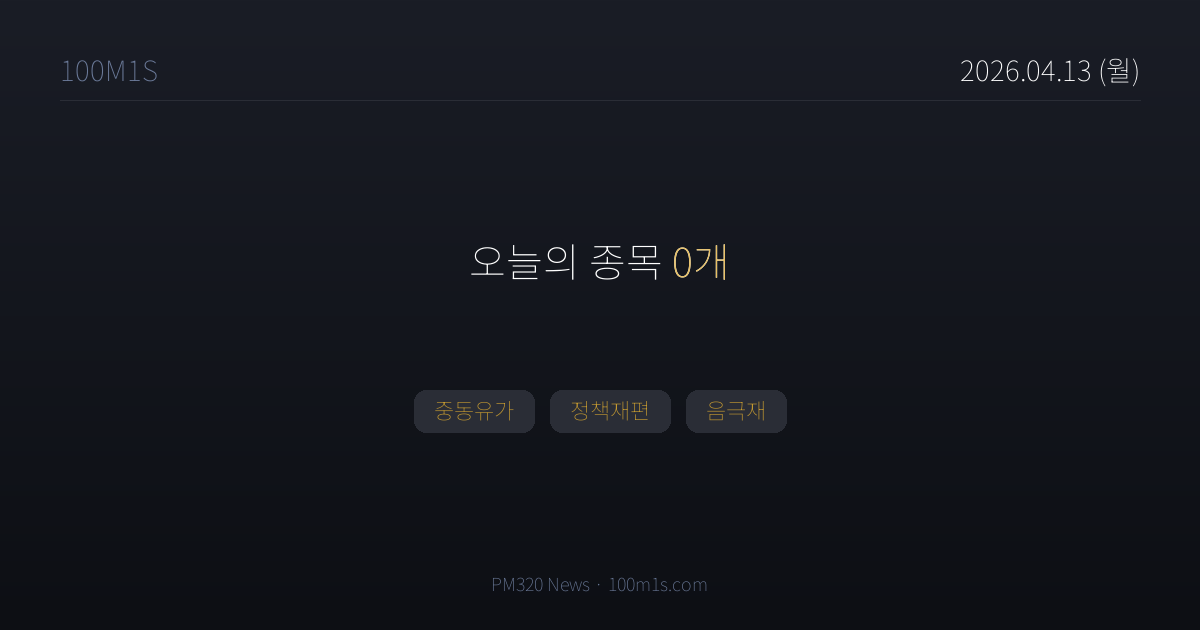
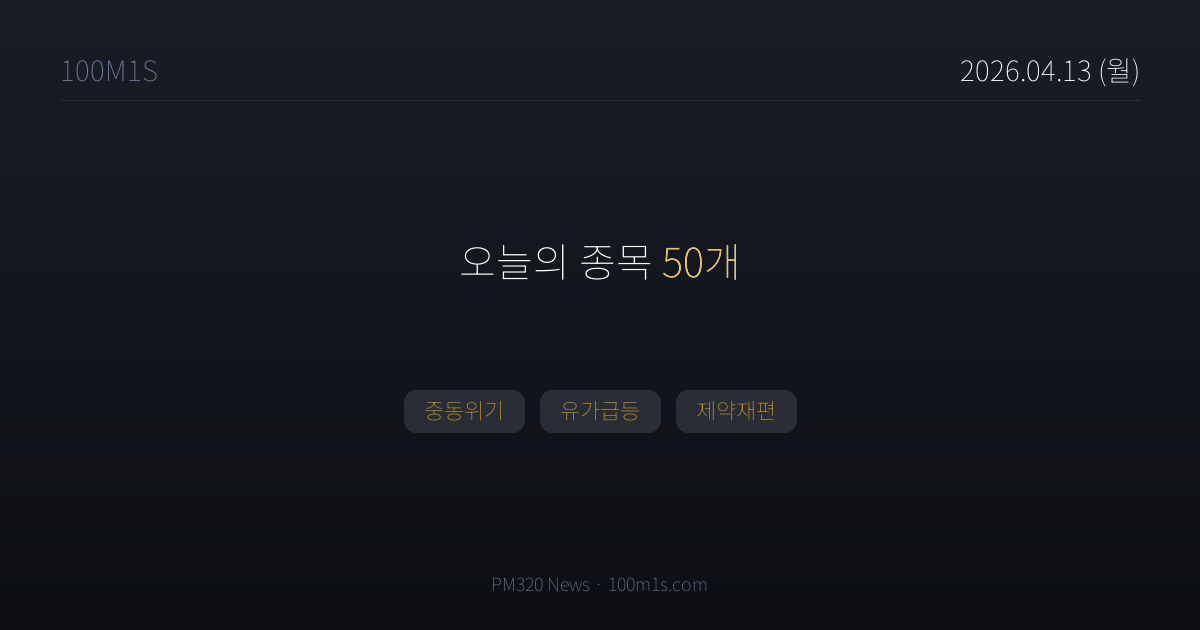
chore(news): 2026-04-13T00:41 pipeline

Changed region(s): [[0.3392, 0.6032, 0.6783, 0.6937], [0.37, 0.3921, 0.6167, 0.4524]]

diff --git a/news/2026-04-13.html b/news/2026-04-13.html
@@ -3,8 +3,8 @@
 <head>
 <meta charset="UTF-8">
 <title>4월 13일 (월) 뉴스 — 100M1S</title>
-<meta property="og:title" content="4월 13일 (월) · 종목 0개">
-<meta property="og:description" content="중동유가, 정책재편, 음극재">
+<meta property="og:title" content="4월 13일 (월) · 종목 50개">
+<meta property="og:description" content="중동위기, 유가급등, 제약재편">
 <meta property="og:image" content="https://100m1s.com/og/2026-04-13.png">
 <meta property="og:image:width" content="1200">
 <meta property="og:image:height" content="630">
